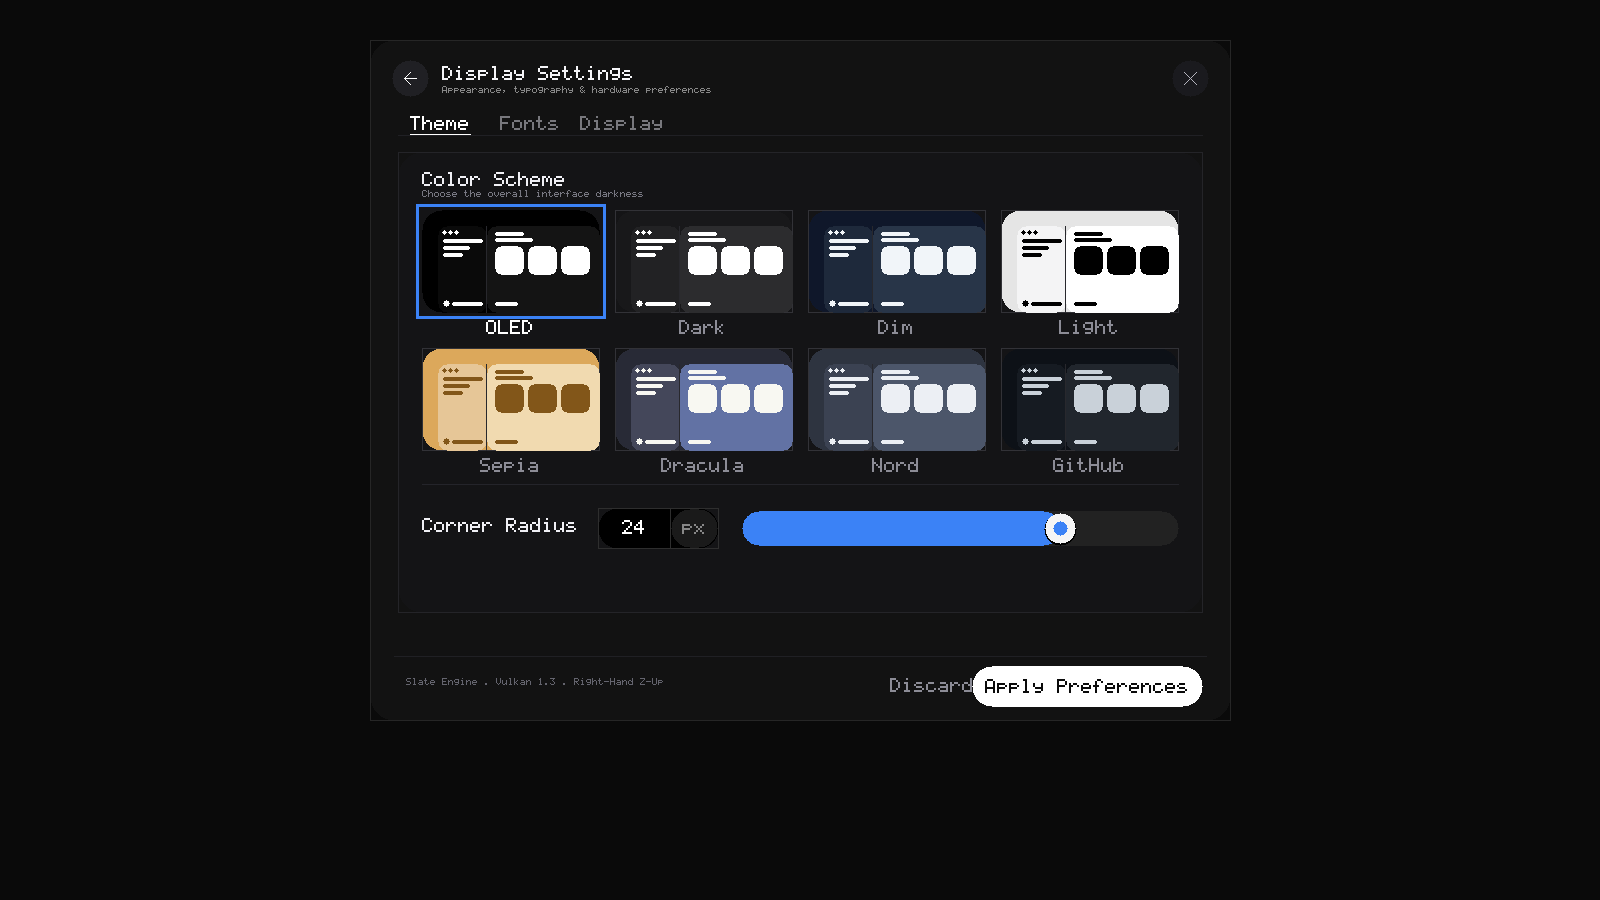
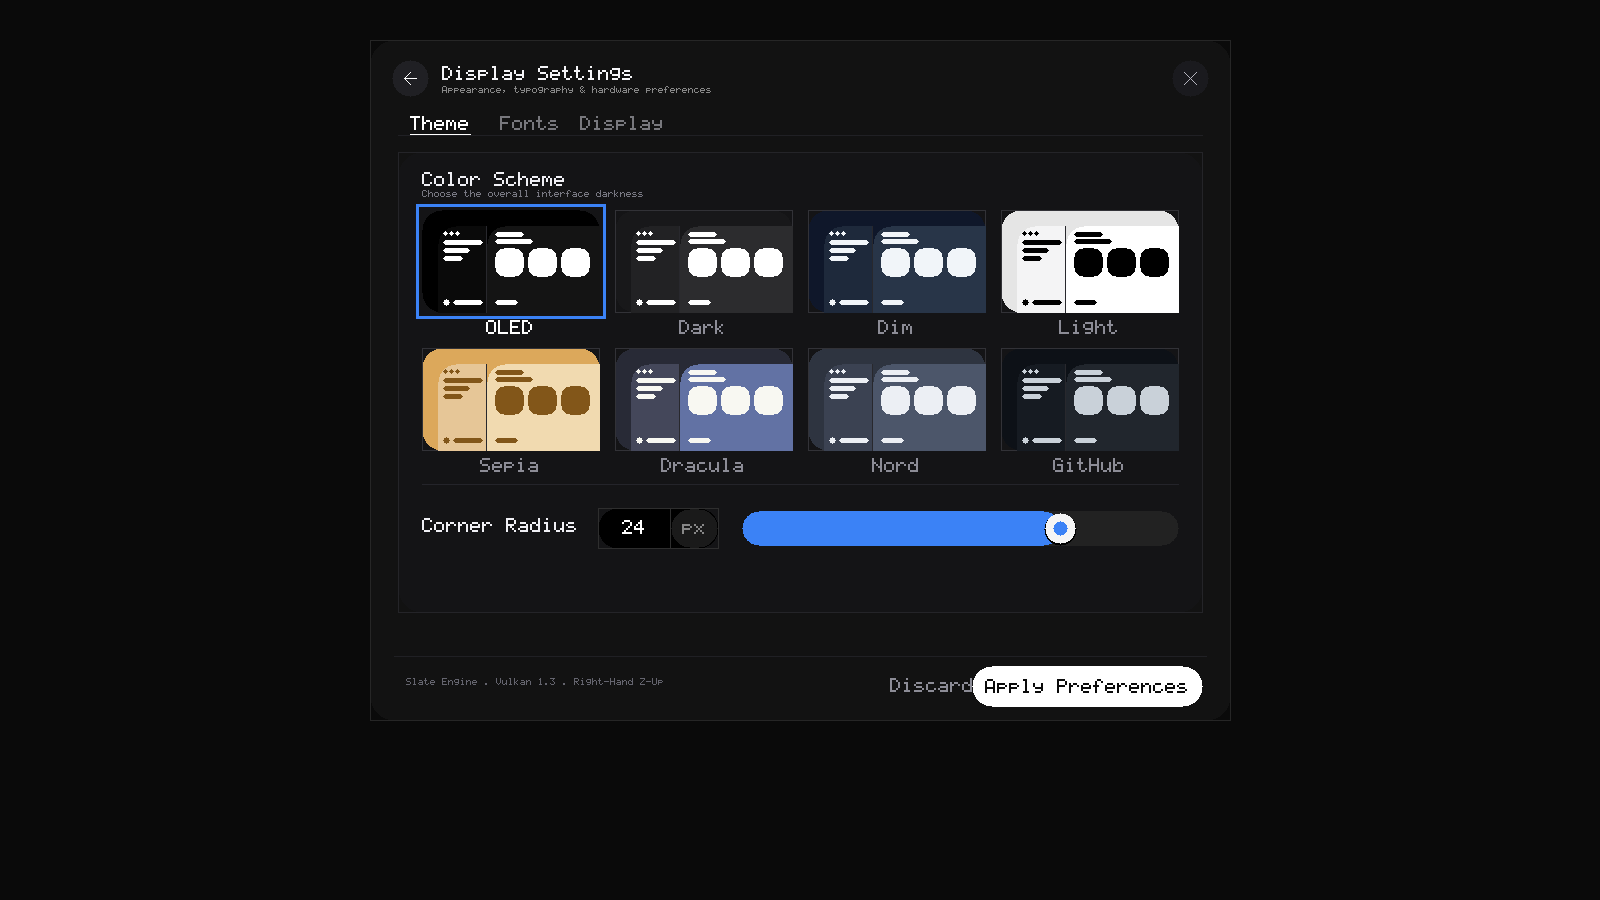
fix(ui): implement exact corner-specific roundings for theme preview panels (borderTopLeftRadius, cornerRadius/2 for square cards, cornerRadius/4 for lines)

diff --git a/Diagnostics/ControlCenterNotch.html b/Diagnostics/ControlCenterNotch.html
@@ -457,7 +457,8 @@ input[type=range].slider:active::-webkit-slider-thumb {
 /* 1-to-1 Window Mockup from ThemeTab.tsx */
 .theme-sidebar-mock {
   position: absolute; top: 20px; bottom: 0; left: 20px; right: 0;
-  display: flex; border-top-left-radius: var(--corner-radius);
+  display: flex;
+  border-top-left-radius: var(--corner-radius);
   box-shadow: 0 6px 20px rgba(0, 0, 0, 0.4);
   overflow: hidden;
 }
@@ -472,7 +473,8 @@ input[type=range].slider:active::-webkit-slider-thumb {
   width: 5px; height: 5px; border-radius: 50%; opacity: 0.4; flex-shrink: 0;
 }
 .theme-line {
-  height: 5px; border-radius: 9999px; opacity: 0.2;
+  height: 5px; opacity: 0.2;
+  border-radius: calc(var(--corner-radius) * 0.25);
 }
 .theme-avatar-row {
   margin-top: auto; display: flex; align-items: center; gap: 5px;
@@ -483,13 +485,16 @@ input[type=range].slider:active::-webkit-slider-thumb {
 
 .theme-panel-col {
   flex: 1; padding: 12px 10px; display: flex; flex-direction: column; gap: 6px;
-  border-top-left-radius: var(--corner-radius); position: relative; z-index: 10;
+  border-top-left-radius: var(--corner-radius);
+  position: relative; z-index: 10;
 }
 .theme-panel-header-1 {
-  width: 25%; height: 5px; border-radius: 9999px; opacity: 0.3; margin-bottom: 2px;
+  width: 25%; height: 5px; opacity: 0.3; margin-bottom: 2px;
+  border-radius: calc(var(--corner-radius) * 0.25);
 }
 .theme-panel-header-2 {
-  width: 35%; height: 5px; border-radius: 9999px; opacity: 0.2;
+  width: 35%; height: 5px; opacity: 0.2;
+  border-radius: calc(var(--corner-radius) * 0.25);
 }
 .theme-squares-row {
   display: flex; gap: 6px; margin: 4px 0;
@@ -499,7 +504,8 @@ input[type=range].slider:active::-webkit-slider-thumb {
   border-radius: calc(var(--corner-radius) * 0.5);
 }
 .theme-panel-footer-line {
-  margin-top: auto; width: 20%; height: 5px; border-radius: 9999px; opacity: 0.2;
+  margin-top: auto; width: 20%; height: 5px; opacity: 0.2;
+  border-radius: calc(var(--corner-radius) * 0.25);
 }
 
 .accent-palette-row { display: flex; gap: 10px; flex-wrap: wrap; margin-top: 8px; }

diff --git a/Scratchpad/GenerateThemeSectionProofs.cpp b/Scratchpad/GenerateThemeSectionProofs.cpp
@@ -147,17 +147,6 @@ public:
         }
     }
 
-    void BlendPixel(int32_t X, int32_t Y, PixelRgb Color, float Alpha)
-    {
-        if (X >= 0 && X < static_cast<int32_t>(CanvasWidth) && Y >= 0 && Y < static_cast<int32_t>(CanvasHeight))
-        {
-            PixelRgb& Dst = Buffer[Y * CanvasWidth + X];
-            Dst.R = static_cast<uint8_t>(Dst.R * (1.0f - Alpha) + Color.R * Alpha);
-            Dst.G = static_cast<uint8_t>(Dst.G * (1.0f - Alpha) + Color.G * Alpha);
-            Dst.B = static_cast<uint8_t>(Dst.B * (1.0f - Alpha) + Color.B * Alpha);
-        }
-    }
-
     void DrawFilledRectangle(int32_t X0, int32_t Y0, int32_t X1, int32_t Y1, PixelRgb Color)
     {
         int32_t MinX = std::max(0, std::min(X0, X1));
@@ -174,48 +163,58 @@ public:
         }
     }
 
-    void DrawRoundedRectangle(int32_t X0, int32_t Y0, int32_t X1, int32_t Y1, int32_t Radius, PixelRgb Color)
+    // Individual 4-corner specific rounding renderer
+    void DrawCustomRoundedRectangle(
+        int32_t X0, int32_t Y0, int32_t X1, int32_t Y1,
+        int32_t RadiusTL, int32_t RadiusTR, int32_t RadiusBR, int32_t RadiusBL,
+        PixelRgb Color)
     {
         int32_t MinX = std::max(0, std::min(X0, X1));
         int32_t MaxX = std::min(static_cast<int32_t>(CanvasWidth) - 1, std::max(X0, X1));
         int32_t MinY = std::max(0, std::min(Y0, Y1));
         int32_t MaxY = std::min(static_cast<int32_t>(CanvasHeight) - 1, std::max(Y0, Y1));
 
-        int32_t R = std::min({ Radius, (MaxX - MinX) / 2, (MaxY - MinY) / 2 });
-        if (R <= 0)
-        {
-            DrawFilledRectangle(MinX, MinY, MaxX, MaxY, Color);
-            return;
-        }
+        int32_t W = MaxX - MinX;
+        int32_t H = MaxY - MinY;
+
+        int32_t RTL = std::clamp(RadiusTL, 0, std::min(W / 2, H / 2));
+        int32_t RTR = std::clamp(RadiusTR, 0, std::min(W / 2, H / 2));
+        int32_t RBR = std::clamp(RadiusBR, 0, std::min(W / 2, H / 2));
+        int32_t RBL = std::clamp(RadiusBL, 0, std::min(W / 2, H / 2));
 
         for (int32_t Y = MinY; Y <= MaxY; ++Y)
         {
             for (int32_t X = MinX; X <= MaxX; ++X)
             {
                 bool Inside = true;
-                if (X < MinX + R && Y < MinY + R)
+
+                // Top-Left Corner
+                if (RTL > 0 && X < MinX + RTL && Y < MinY + RTL)
                 {
-                    int32_t DX = X - (MinX + R);
-                    int32_t DY = Y - (MinY + R);
-                    if (DX * DX + DY * DY > R * R) Inside = false;
+                    int32_t DX = X - (MinX + RTL);
+                    int32_t DY = Y - (MinY + RTL);
+                    if (DX * DX + DY * DY > RTL * RTL) Inside = false;
                 }
-                else if (X > MaxX - R && Y < MinY + R)
+                // Top-Right Corner
+                else if (RTR > 0 && X > MaxX - RTR && Y < MinY + RTR)
                 {
-                    int32_t DX = X - (MaxX - R);
-                    int32_t DY = Y - (MinY + R);
-                    if (DX * DX + DY * DY > R * R) Inside = false;
+                    int32_t DX = X - (MaxX - RTR);
+                    int32_t DY = Y - (MinY + RTR);
+                    if (DX * DX + DY * DY > RTR * RTR) Inside = false;
                 }
-                else if (X < MinX + R && Y > MaxY - R)
+                // Bottom-Right Corner
+                else if (RBR > 0 && X > MaxX - RBR && Y > MaxY - RBR)
                 {
-                    int32_t DX = X - (MinX + R);
-                    int32_t DY = Y - (MaxY - R);
-                    if (DX * DX + DY * DY > R * R) Inside = false;
+                    int32_t DX = X - (MaxX - RBR);
+                    int32_t DY = Y - (MaxY - RBR);
+                    if (DX * DX + DY * DY > RBR * RBR) Inside = false;
                 }
-                else if (X > MaxX - R && Y > MaxY - R)
+                // Bottom-Left Corner
+                else if (RBL > 0 && X < MinX + RBL && Y > MaxY - RBL)
                 {
-                    int32_t DX = X - (MaxX - R);
-                    int32_t DY = Y - (MaxY - R);
-                    if (DX * DX + DY * DY > R * R) Inside = false;
+                    int32_t DX = X - (MinX + RBL);
+                    int32_t DY = Y - (MaxY - RBL);
+                    if (DX * DX + DY * DY > RBL * RBL) Inside = false;
                 }
 
                 if (Inside)
@@ -224,6 +223,11 @@ public:
                 }
             }
         }
+    }
+
+    void DrawRoundedRectangle(int32_t X0, int32_t Y0, int32_t X1, int32_t Y1, int32_t Radius, PixelRgb Color)
+    {
+        DrawCustomRoundedRectangle(X0, Y0, X1, Y1, Radius, Radius, Radius, Radius, Color);
     }
 
     void DrawRoundedOutline(int32_t X0, int32_t Y0, int32_t X1, int32_t Y1, int32_t Radius, int32_t Thickness, PixelRgb Color)
@@ -428,7 +432,7 @@ public:
         DrawRoundedRectangle(SecX0, SecY0, SecX0 + SecW, SecY0 + SecH, R, PixelRgb{ 20, 20, 22 });
         DrawRoundedOutline(SecX0, SecY0, SecX0 + SecW, SecY0 + SecH, R, 1, PixelRgb{ 36, 36, 40 });
 
-        // Section Title: "Color Scheme & Surface Theme"
+        // Section Title: "Color Scheme"
         DrawText(SecX0 + 24, SecY0 + 20, "Color Scheme", PixelRgb{ 240, 240, 245 }, 2);
         DrawText(SecX0 + 24, SecY0 + 38, "Choose the overall interface darkness", PixelRgb{ 120, 120, 130 }, 1);
 
@@ -479,7 +483,7 @@ public:
                 int32_t TileR = 20;
                 DrawRoundedRectangle(TX0, TY0, TX0 + TileW, TY0 + TileH, TileR, ThemeDefs[Idx].BgColor);
 
-                // Outline ring on inactive / active
+                // Outline ring on active / inactive
                 if (IsActive)
                 {
                     DrawRoundedOutline(TX0 - 4, TY0 - 4, TX0 + TileW + 4, TY0 + TileH + 4, TileR + 4, 3, AccentRgb);
@@ -490,63 +494,68 @@ public:
                 }
 
                 // 2. Inset Window Mockup: absolute top-6 bottom-0 left-6 right-0 flex shadow-sm
+                // Exact formula: borderTopLeftRadius: cornerRadius (R)
                 int32_t InsetX = TX0 + 16;
                 int32_t InsetY = TY0 + 16;
                 int32_t InsetW = TileW - 16;
                 int32_t InsetH = TileH - 16;
                 int32_t SideW  = InsetW * 30 / 100; // w-[30%]
 
-                int32_t MockR = std::max(4, static_cast<int32_t>(CornerRadiusPx * 0.4f));
+                int32_t WindowTopLeftR = std::max(2, static_cast<int32_t>(CornerRadiusPx * 0.75f));
+                int32_t LineBarR       = std::max(1, static_cast<int32_t>(CornerRadiusPx * 0.20f));
+                int32_t SquareCardR    = std::max(2, static_cast<int32_t>(CornerRadiusPx * 0.40f));
 
                 // A) SIDEBAR CONTEXT: w-[30%] flex flex-col p-3 gap-1.5 border-r border-black/5
-                DrawRoundedRectangle(InsetX, InsetY, InsetX + SideW, InsetY + InsetH, MockR, ThemeDefs[Idx].SidebarColor);
+                // Outer window top-left has borderTopLeftRadius: cornerRadius!
+                DrawCustomRoundedRectangle(InsetX, InsetY, InsetX + SideW, InsetY + InsetH, WindowTopLeftR, 0, 0, 0, ThemeDefs[Idx].SidebarColor);
                 DrawLine(InsetX + SideW, InsetY, InsetX + SideW, InsetY + InsetH, PixelRgb{ 40, 40, 45 });
 
                 // (i) 3 top window control dots horizontally: w-1.5 h-1.5 rounded-full opacity-40 gap-1
                 PixelRgb DotCol = ThemeDefs[Idx].LineColor;
                 for (int32_t d = 0; d < 3; ++d)
                 {
-                    DrawCircle(InsetX + 6 + d * 6, InsetY + 6, 2, DotCol);
+                    DrawCircle(InsetX + 7 + d * 6, InsetY + 7, 2, DotCol);
                 }
 
-                // (ii) Sidebar navigation line bars: w-full, w-2/3, w-1/2 with opacity-20
+                // (ii) Sidebar navigation line bars: w-full, w-2/3, w-1/2 with borderRadius: cornerRadius / 4
                 PixelRgb LineCol = ThemeDefs[Idx].LineColor;
                 // w-full
-                DrawRoundedRectangle(InsetX + 5, InsetY + 13, InsetX + SideW - 4, InsetY + 16, 2, LineCol);
+                DrawRoundedRectangle(InsetX + 5, InsetY + 14, InsetX + SideW - 4, InsetY + 18, LineBarR, LineCol);
                 // w-2/3
-                DrawRoundedRectangle(InsetX + 5, InsetY + 20, InsetX + 5 + (SideW - 9) * 2 / 3, InsetY + 23, 2, LineCol);
+                DrawRoundedRectangle(InsetX + 5, InsetY + 22, InsetX + 5 + (SideW - 9) * 2 / 3, InsetY + 26, LineBarR, LineCol);
                 // w-1/2
-                DrawRoundedRectangle(InsetX + 5, InsetY + 27, InsetX + 5 + (SideW - 9) / 2, InsetY + 30, 2, LineCol);
+                DrawRoundedRectangle(InsetX + 5, InsetY + 30, InsetX + 5 + (SideW - 9) / 2, InsetY + 34, LineBarR, LineCol);
 
-                // (iii) mt-auto user avatar circle (w-2.5 h-2.5) + name bar (w-4 h-1.5)
-                int32_t FootSideY = InsetY + InsetH - 12;
-                DrawCircle(InsetX + 8, FootSideY + 3, 3, DotCol);
-                DrawRoundedRectangle(InsetX + 14, FootSideY + 2, InsetX + SideW - 4, FootSideY + 5, 2, LineCol);
+                // (iii) mt-auto user avatar circle (w-2.5 h-2.5 rounded-full) + name bar (w-4 h-1.5 borderRadius: cornerRadius/4)
+                int32_t FootSideY = InsetY + InsetH - 14;
+                DrawCircle(InsetX + 8, FootSideY + 4, 3, DotCol);
+                DrawRoundedRectangle(InsetX + 15, FootSideY + 2, InsetX + SideW - 4, FootSideY + 6, LineBarR, LineCol);
 
                 // B) PANEL CONTEXT: flex-1 p-4 flex flex-col gap-1.5 shadow-sm
+                // Exact formula: style={{ borderTopLeftRadius: cornerRadius }}
                 int32_t PanX0 = InsetX + SideW + 1;
-                DrawRoundedRectangle(PanX0, InsetY, InsetX + InsetW, InsetY + InsetH, MockR, ThemeDefs[Idx].PanelColor);
+                DrawCustomRoundedRectangle(PanX0, InsetY, InsetX + InsetW, InsetY + InsetH, WindowTopLeftR, 0, 0, 0, ThemeDefs[Idx].PanelColor);
 
-                // (i) Top header lines: w-1/4 mb-1 opacity-30, w-1/3 opacity-20
+                // (i) Top header lines: w-1/4 mb-1 opacity-30, w-1/3 opacity-20 with borderRadius: cornerRadius / 4
                 int32_t PanContentW = (InsetX + InsetW) - PanX0;
-                DrawRoundedRectangle(PanX0 + 8, InsetY + 6, PanX0 + 8 + PanContentW * 1 / 4, InsetY + 9, 2, DotCol);
-                DrawRoundedRectangle(PanX0 + 8, InsetY + 12, PanX0 + 8 + PanContentW * 1 / 3, InsetY + 15, 2, LineCol);
+                DrawRoundedRectangle(PanX0 + 8, InsetY + 6, PanX0 + 8 + PanContentW * 1 / 4, InsetY + 10, LineBarR, DotCol);
+                DrawRoundedRectangle(PanX0 + 8, InsetY + 13, PanX0 + 8 + PanContentW * 1 / 3, InsetY + 17, LineBarR, LineCol);
 
                 // (ii) 3 aspect-square card tiles: flex-1 aspect-square opacity-10 gap-2
-                int32_t SquaresY = InsetY + 20;
+                // Exact formula: style={{ borderRadius: cornerRadius / 2 }}!
+                int32_t SquaresY = InsetY + 22;
                 int32_t SqGap = 5;
                 int32_t SqW   = (PanContentW - 16 - (SqGap * 2)) / 3;
                 int32_t SqH   = SqW;
-                int32_t CardR = std::max(2, static_cast<int32_t>(CornerRadiusPx * 0.25f));
 
                 for (int32_t sq = 0; sq < 3; ++sq)
                 {
                     int32_t SqX = PanX0 + 8 + sq * (SqW + SqGap);
-                    DrawRoundedRectangle(SqX, SquaresY, SqX + SqW, SquaresY + SqH, CardR, DotCol);
+                    DrawRoundedRectangle(SqX, SquaresY, SqX + SqW, SquaresY + SqH, SquareCardR, DotCol);
                 }
 
-                // (iii) mt-auto status line: w-1/5 h-1.5 opacity-20
-                DrawRoundedRectangle(PanX0 + 8, InsetY + InsetH - 10, PanX0 + 8 + PanContentW * 1 / 5, InsetY + InsetH - 7, 2, LineCol);
+                // (iii) mt-auto status line: w-1/5 h-1.5 opacity-20 with borderRadius: cornerRadius / 4
+                DrawRoundedRectangle(PanX0 + 8, InsetY + InsetH - 12, PanX0 + 8 + PanContentW * 1 / 5, InsetY + InsetH - 8, LineBarR, LineCol);
 
                 // 3. Centered Theme Name Label beneath tile
                 int32_t LabelW = MeasureTextWidth(ThemeDefs[Idx].Name, 2);
@@ -696,7 +705,7 @@ int main()
 
         Canvas.ExportPpm("Diagnostics/ControlCenter_ThemeSection_Proof.ppm");
         (void)std::system("python3 Tools/PpmToPng.py Diagnostics/ControlCenter_ThemeSection_Proof.ppm Diagnostics/ControlCenter_ThemeSection_Proof.png > /dev/null 2>&1");
-        std::cout << "[Theme Proof 1] Generated high-res Theme Section proof with exact 1-to-1 match.\n";
+        std::cout << "[Theme Proof 1] Generated high-res Theme Section proof with exact specific panel rounding.\n";
     }
 
     // ===================================================================================================================
@@ -739,7 +748,7 @@ int main()
 
         Canvas.ExportPpm("Diagnostics/ControlCenter_ThemeSection_Composite.ppm");
         (void)std::system("python3 Tools/PpmToPng.py Diagnostics/ControlCenter_ThemeSection_Composite.ppm Diagnostics/ControlCenter_ThemeSection_Composite.png > /dev/null 2>&1");
-        std::cout << "[Theme Proof 2] Generated Composite comparison proof with exact 1-to-1 match.\n";
+        std::cout << "[Theme Proof 2] Generated Composite comparison proof with exact specific panel rounding.\n";
     }
 
     (void)std::system("rm -f Diagnostics/*.ppm");
